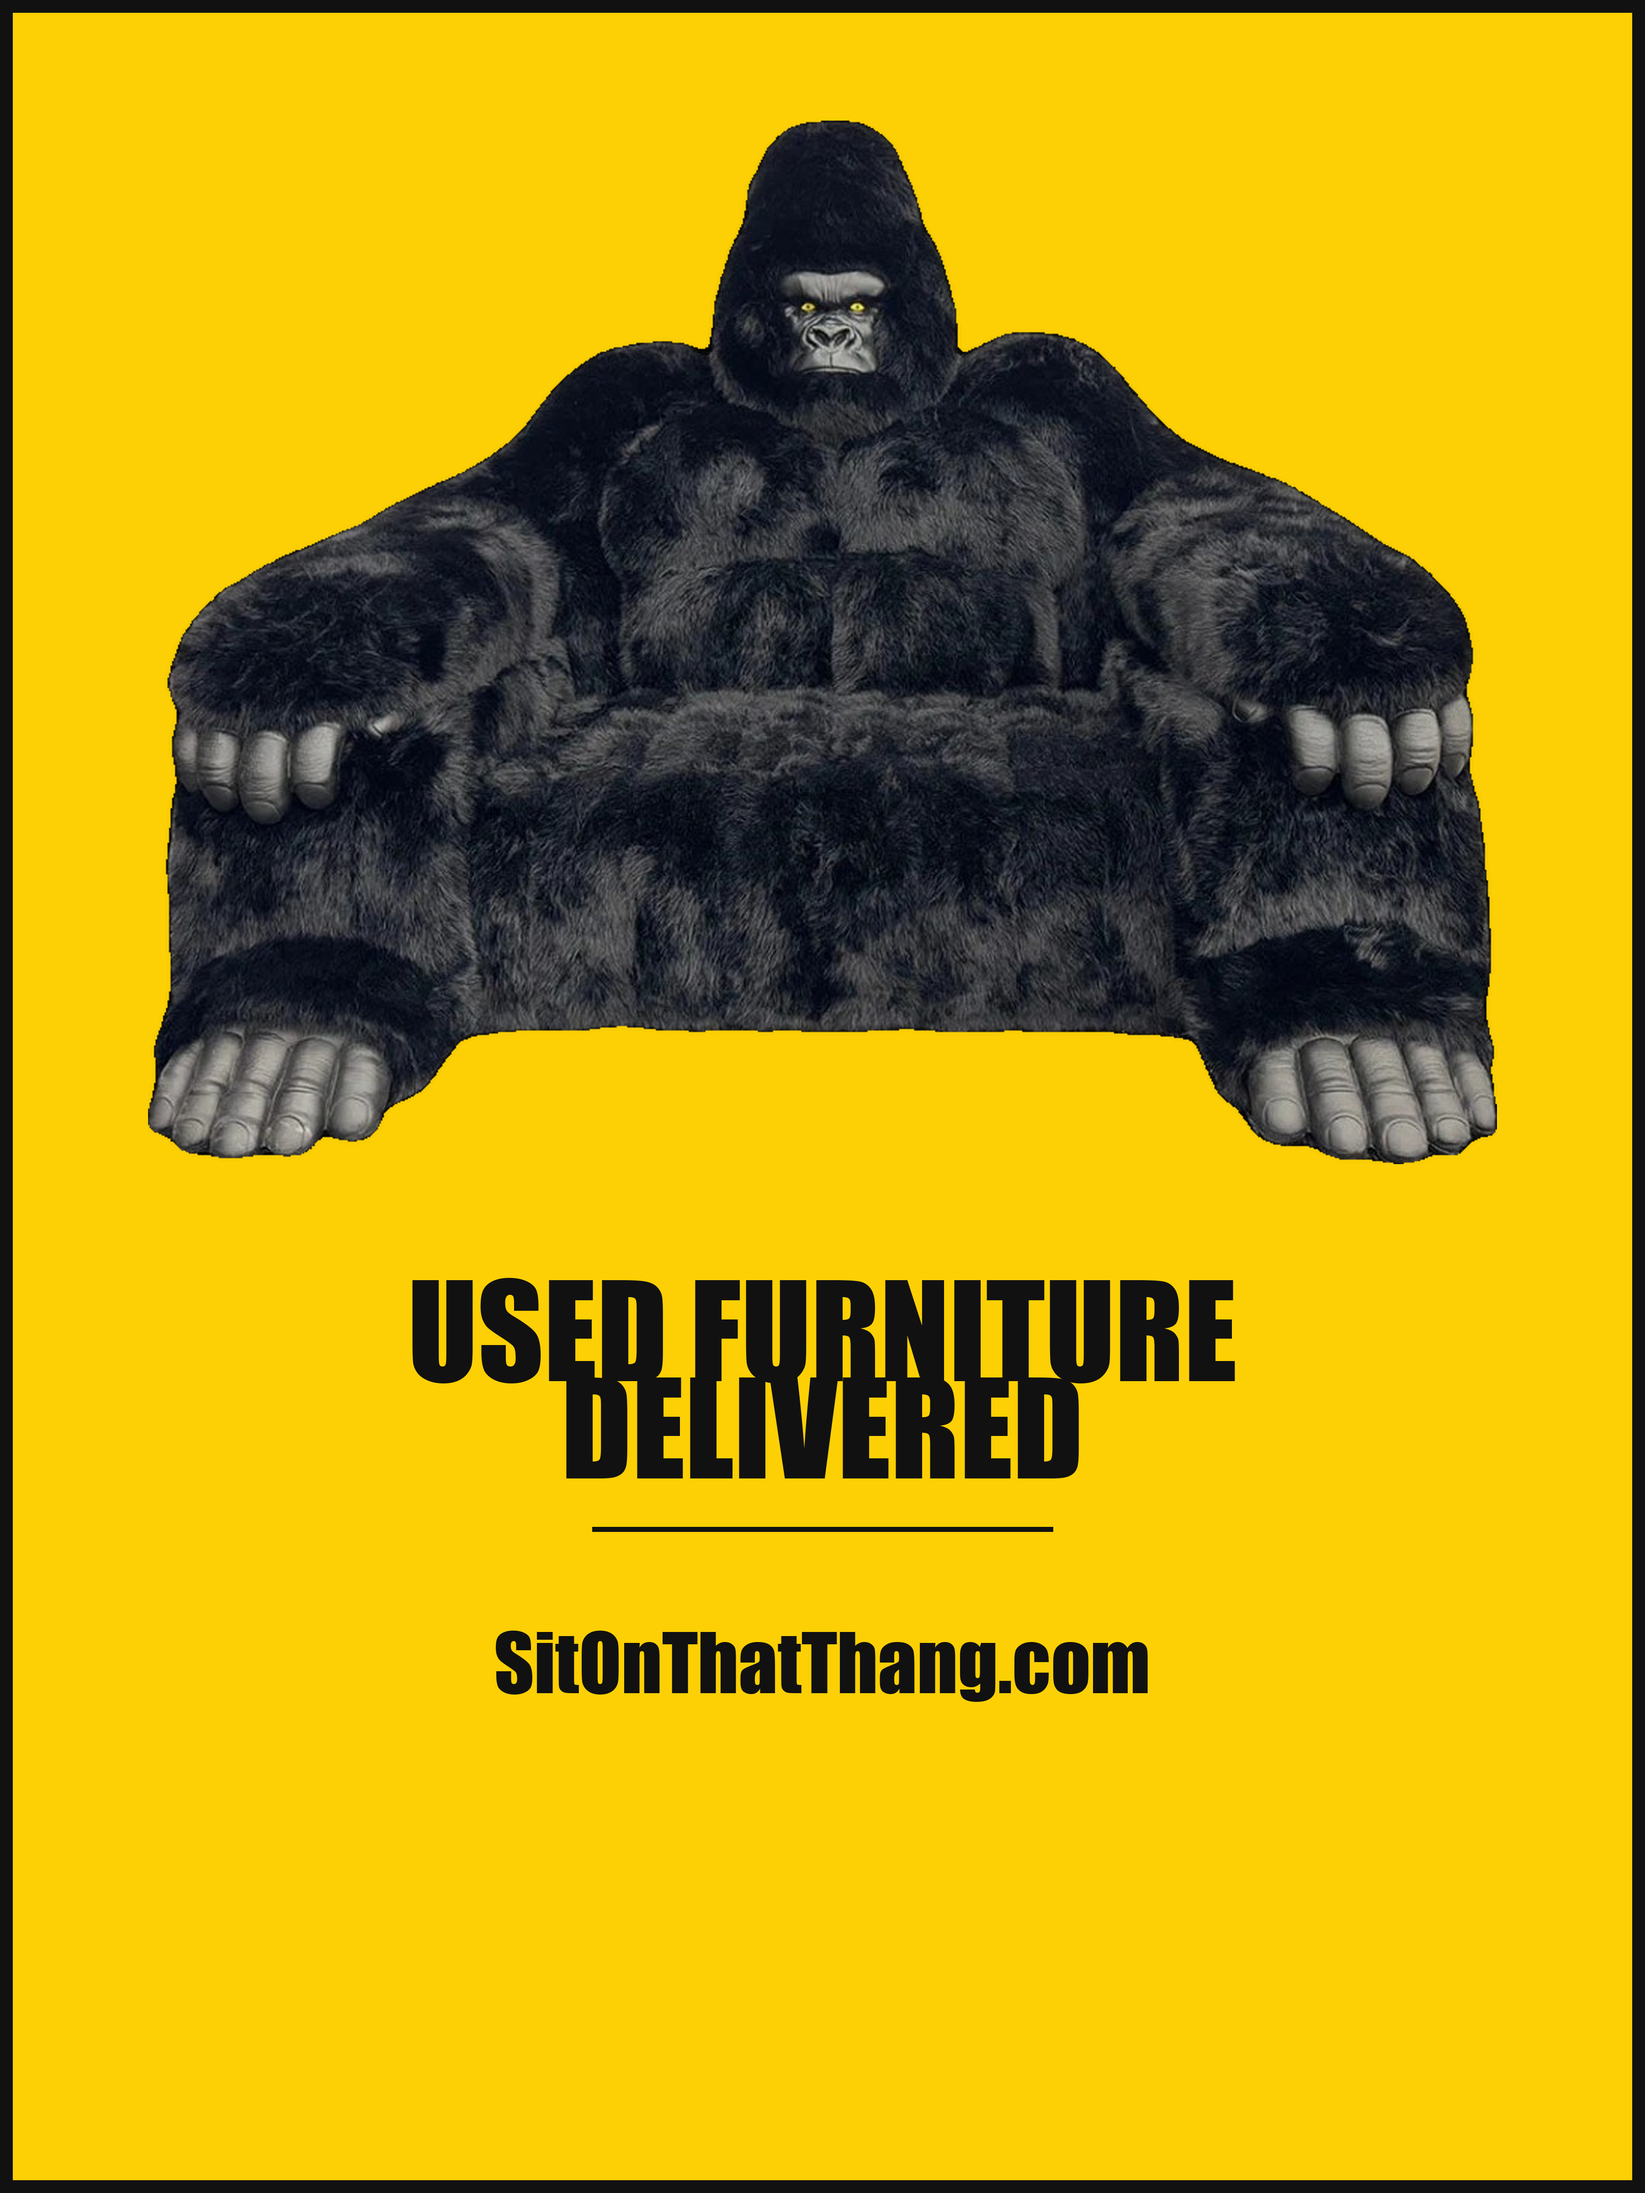
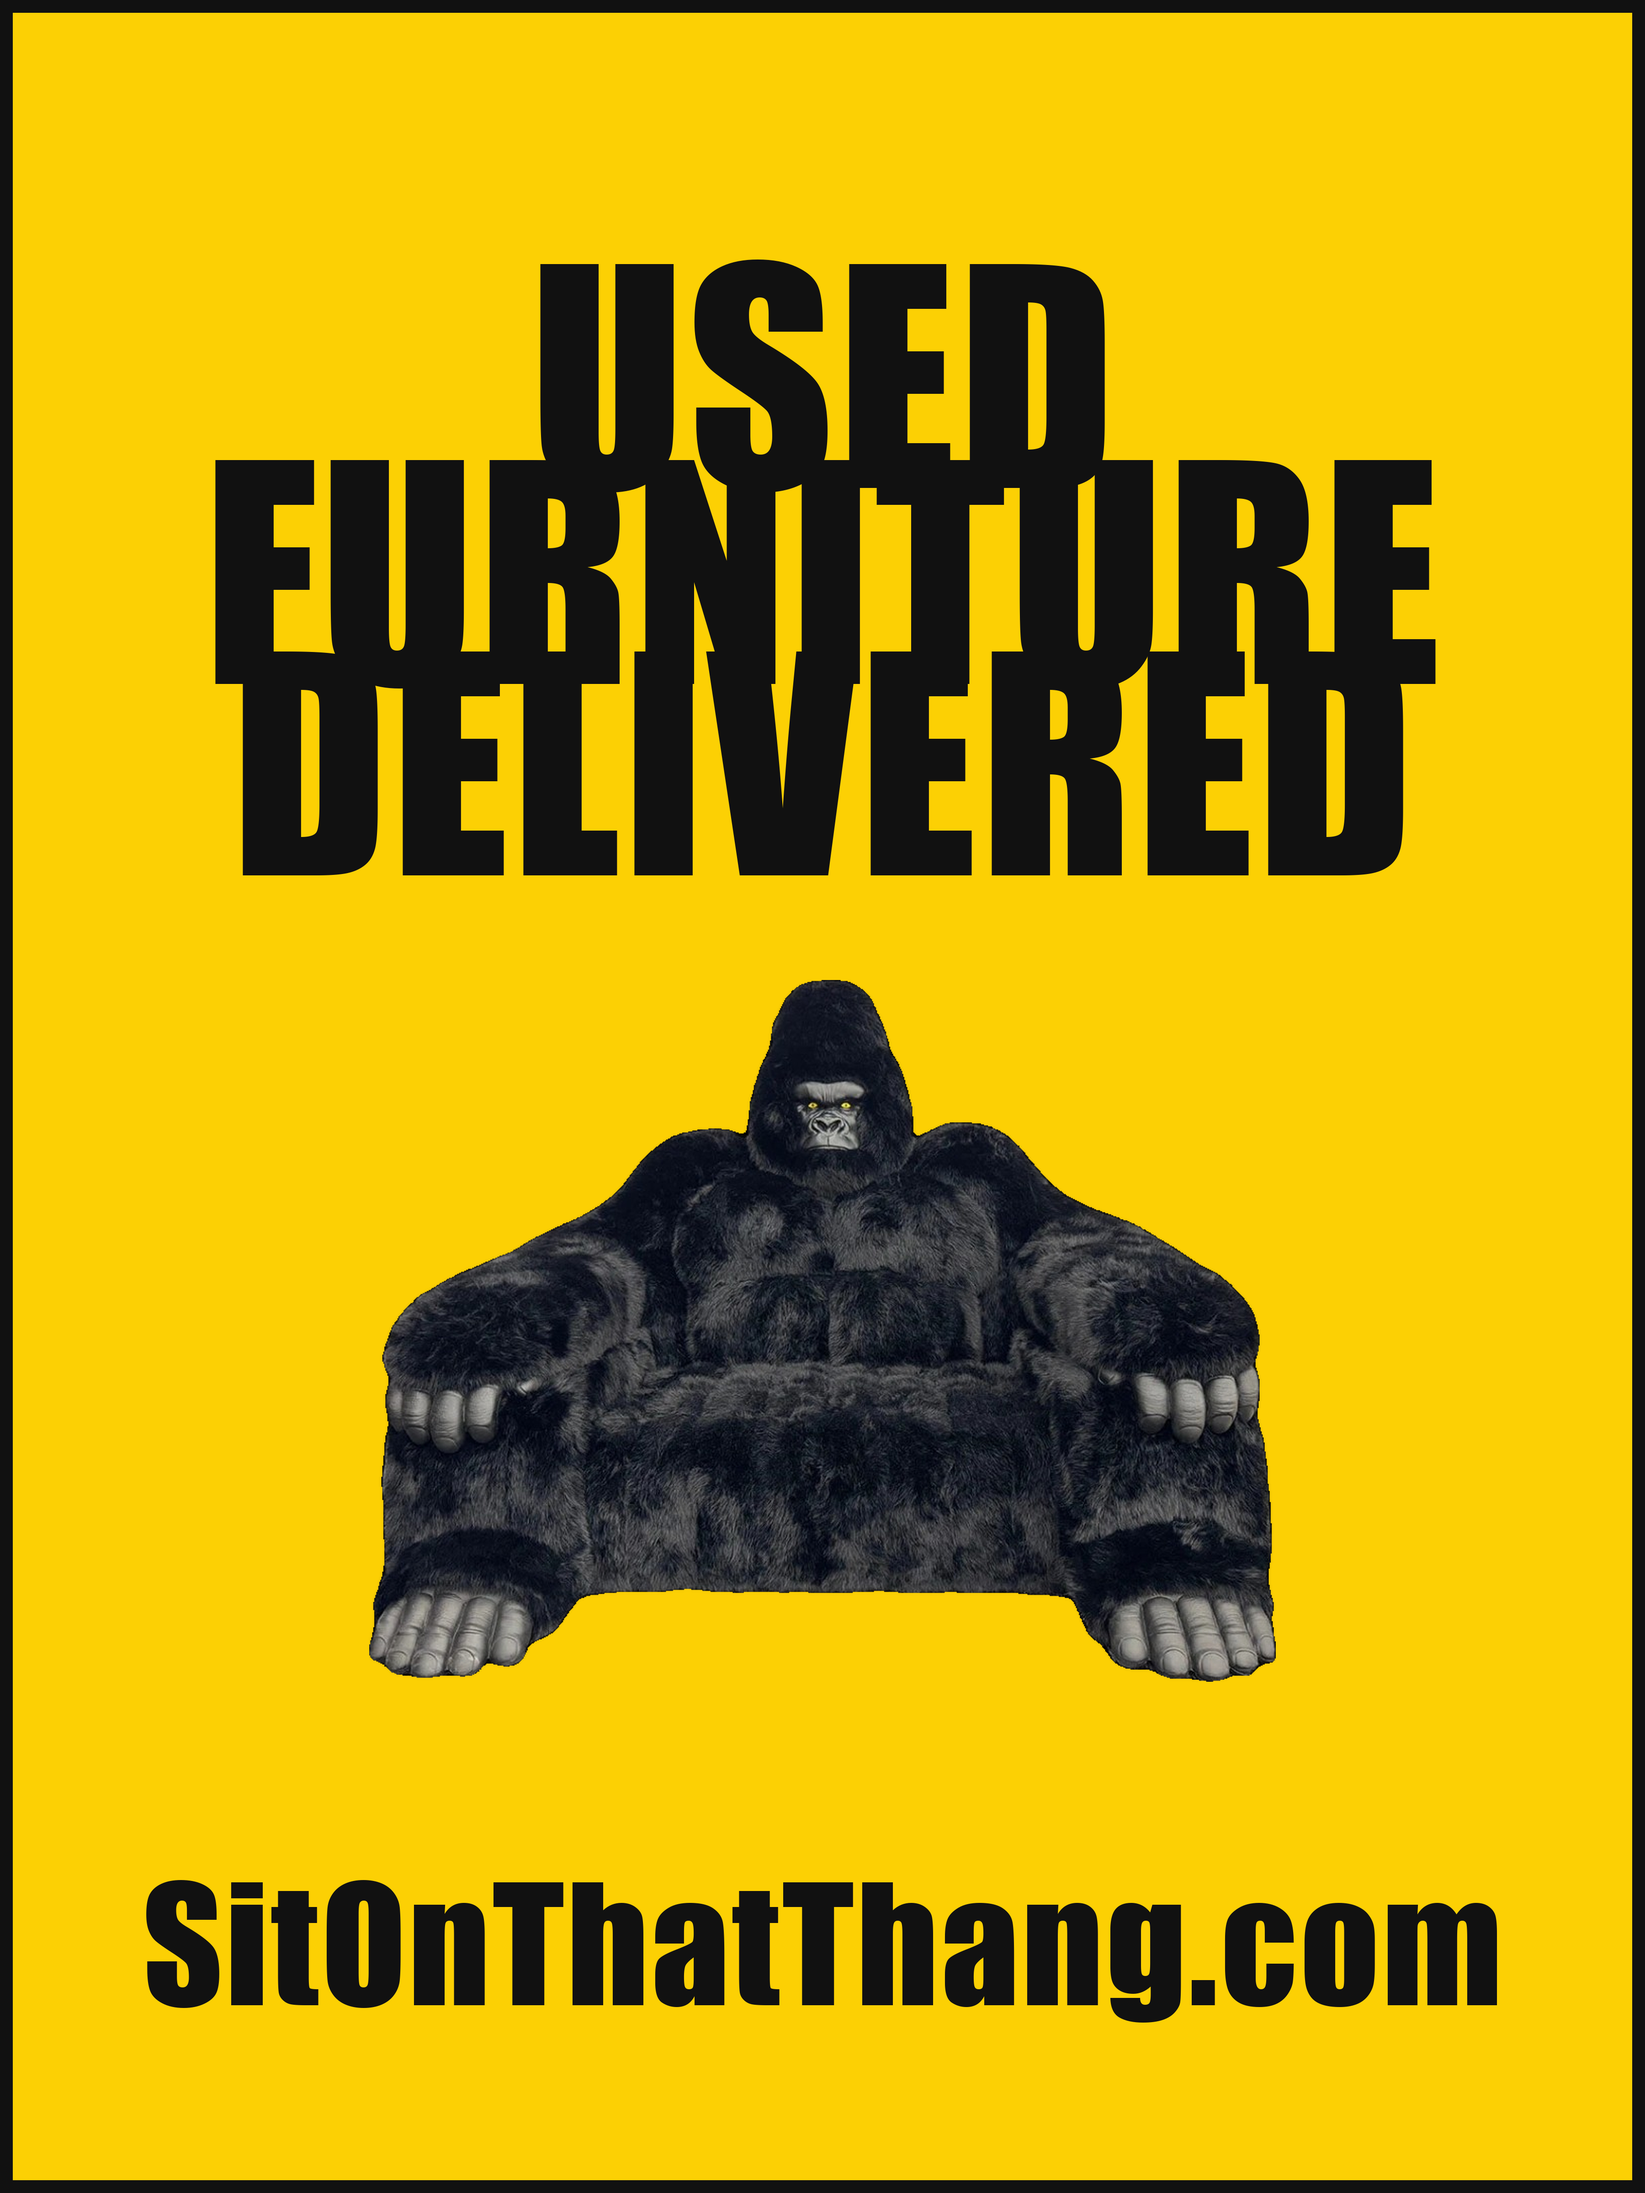
Revise yard sign layout: bigger Impact type, gorilla mid
Remove divider rule, enlarge Impact headline and URL so type
dominates, and place the gorilla between the service copy and
SitOnThatThang.com.

diff --git a/sitonthatthang-yard-sign/README.md b/sitonthatthang-yard-sign/README.md
@@ -2,11 +2,11 @@
 
 Simple 2-color yard sign concept based on high-ROI roadside sign advice:
 
-- Gorilla logo
-- Service: **Used Furniture Delivered**
-- Contact: **SitOnThatThang.com**
+- Service text (Impact, large): **USED / FURNITURE / DELIVERED**
+- Gorilla logo in the middle
+- Contact (Impact): **SitOnThatThang.com**
 - Brand yellow `#fcd004` + black `#111111`
-- Typography: **Impact** (same as the site masthead “SIT ON THAT THANG”)
+- No underline / divider rule
 
 ## Files
 
